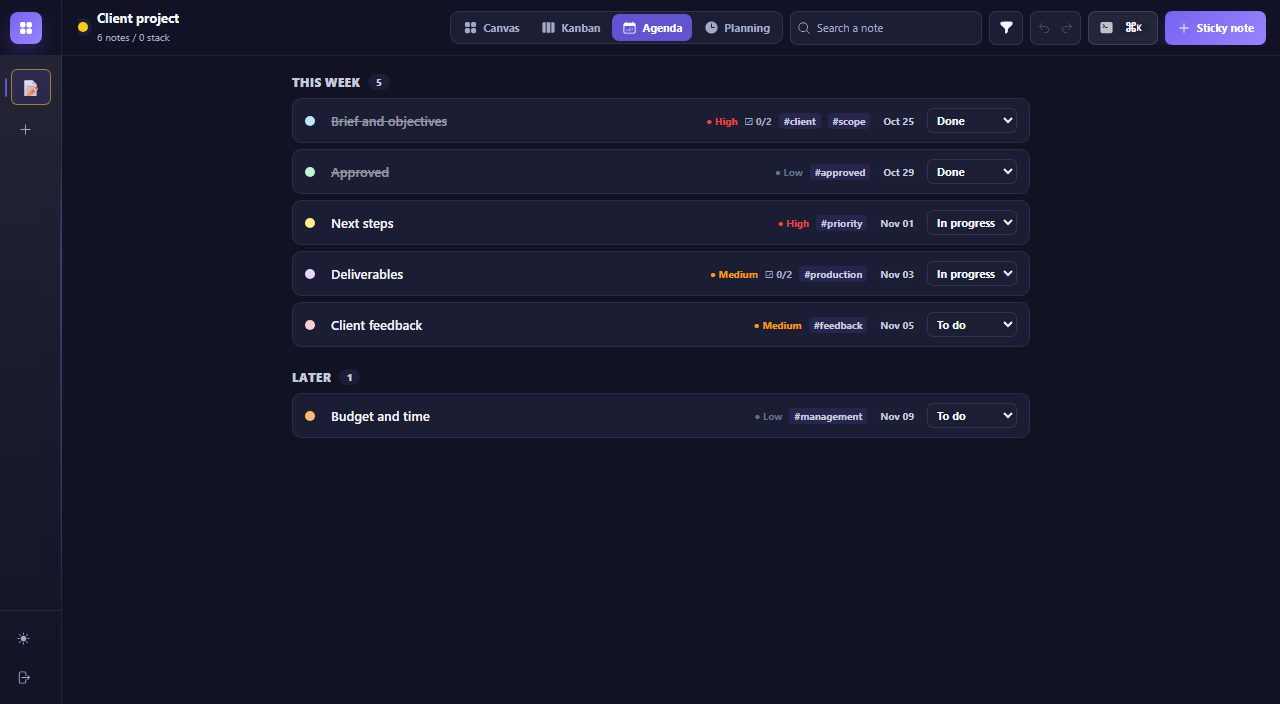
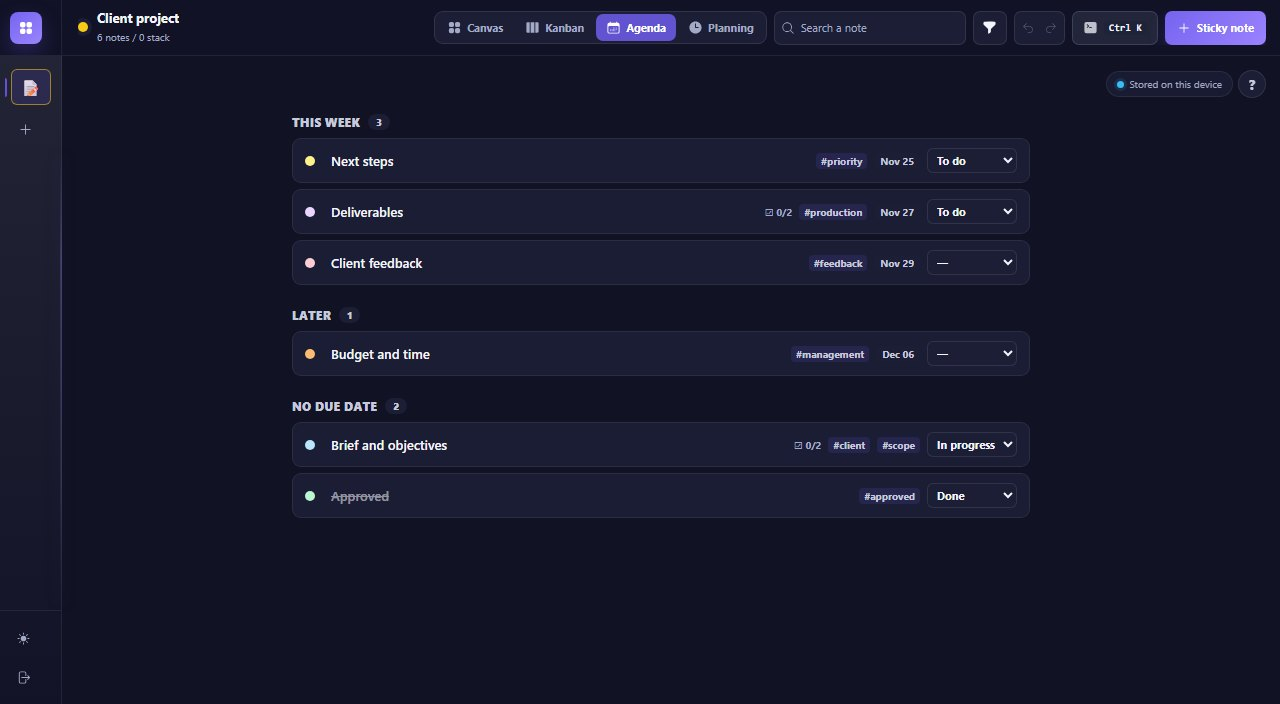
docs(landing): accurate deletion claim and views captured from the real app
- "suppression en un clic" becomes self-serve export and deletion (FR/EN).
- Regenerate the 8 view images (1280x704) from the real app, with the fixed
  card font and the "Projet client" template.

diff --git a/landing/index.html b/landing/index.html
@@ -599,7 +599,7 @@
                     </div>
                     <p class="hero-note">
                         Gratuit · Aucune carte bancaire · Vos données restent
-                        les vôtres (export &amp; suppression en un clic)
+                        les vôtres (export &amp; suppression en libre-service)
                     </p>
                 </div>
                 <div class="board" aria-hidden="true">
@@ -789,8 +789,8 @@
                         <h3>Vos notes vous appartiennent</h3>
                         <p>
                             Exportez en Markdown ou en JSON complet, supprimez
-                            votre compte et vos données en un clic. Pas
-                            d'enfermement.
+                            votre compte et toutes vos données depuis l'app,
+                            sans demande à envoyer. Pas d'enfermement.
                         </p>
                     </div>
                 </div>

diff --git a/landing/en/index.html b/landing/en/index.html
@@ -598,8 +598,8 @@
                         >
                     </div>
                     <p class="hero-note">
-                        Free · No credit card · Your data stays yours (export
-                        &amp; deletion in one click)
+                        Free · No credit card · Your data stays yours
+                        (self-serve export &amp; deletion)
                     </p>
                 </div>
                 <div class="board" aria-hidden="true">
@@ -781,7 +781,8 @@
                         <h3>Your notes stay yours</h3>
                         <p>
                             Export to Markdown or full JSON, delete your account
-                            and data in one click. No lock-in.
+                            and all your data from the app, no request needed.
+                            No lock-in.
                         </p>
                     </div>
                 </div>
